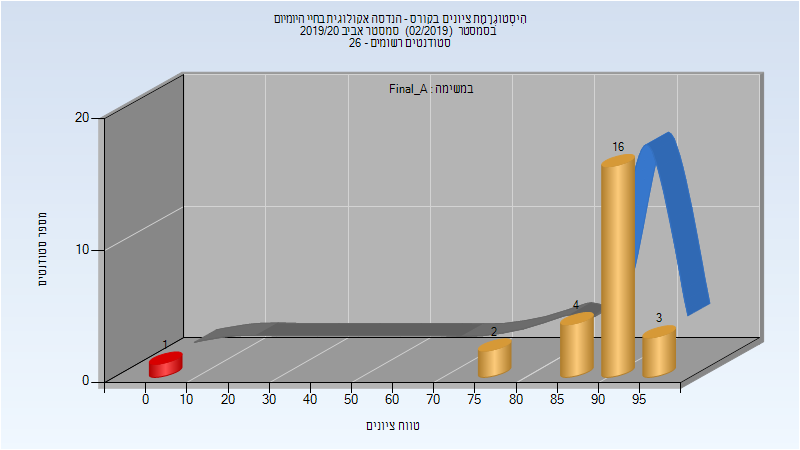
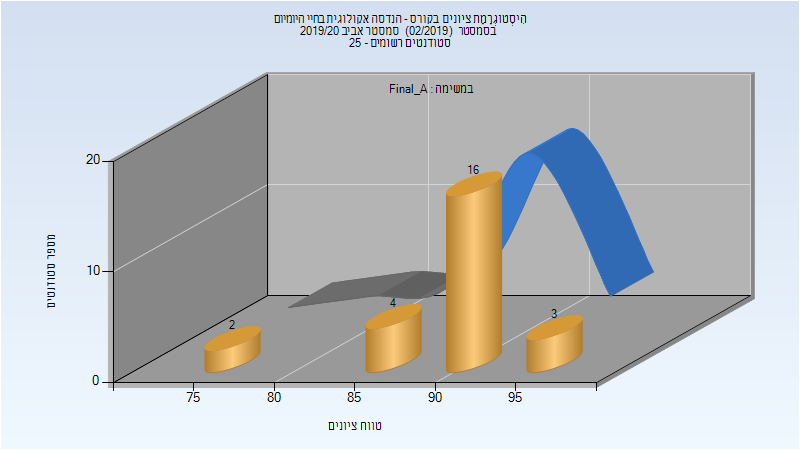
Deploy michael-maltsev/technion-histograms to github.com/michael-maltsev/technion-histograms.git:gh-pages

diff --git a/054376/index.html b/054376/index.html
@@ -97,12 +97,12 @@
 </thead>
 <tbody>
 <tr>
-<td>26</td>
-<td>25/1</td>
-<td>96</td>
-<td>0</td>
+<td>25</td>
+<td>25/0</td>
+<td>100</td>
+<td>76.6</td>
 <td>97.1</td>
-<td>87.454</td>
+<td>90.952</td>
 <td>91.6</td>
 </tr>
 </tbody>

diff --git a/054376/README.md b/054376/README.md
@@ -27,7 +27,7 @@
 
 | סטודנטים | עברו/נכשלו | אחוז עוברים | ציון מינימלי | ציון מקסימלי | ממוצע | חציון |
 | ---- | ---- | ---- | ---- | ---- | ---- | ---- |
-| 26 | 25/1 | 96 | 0 | 97.1 | 87.454 | 91.6 |
+| 25 | 25/0 | 100 | 76.6 | 97.1 | 90.952 | 91.6 |
 
 ### סופי
 
